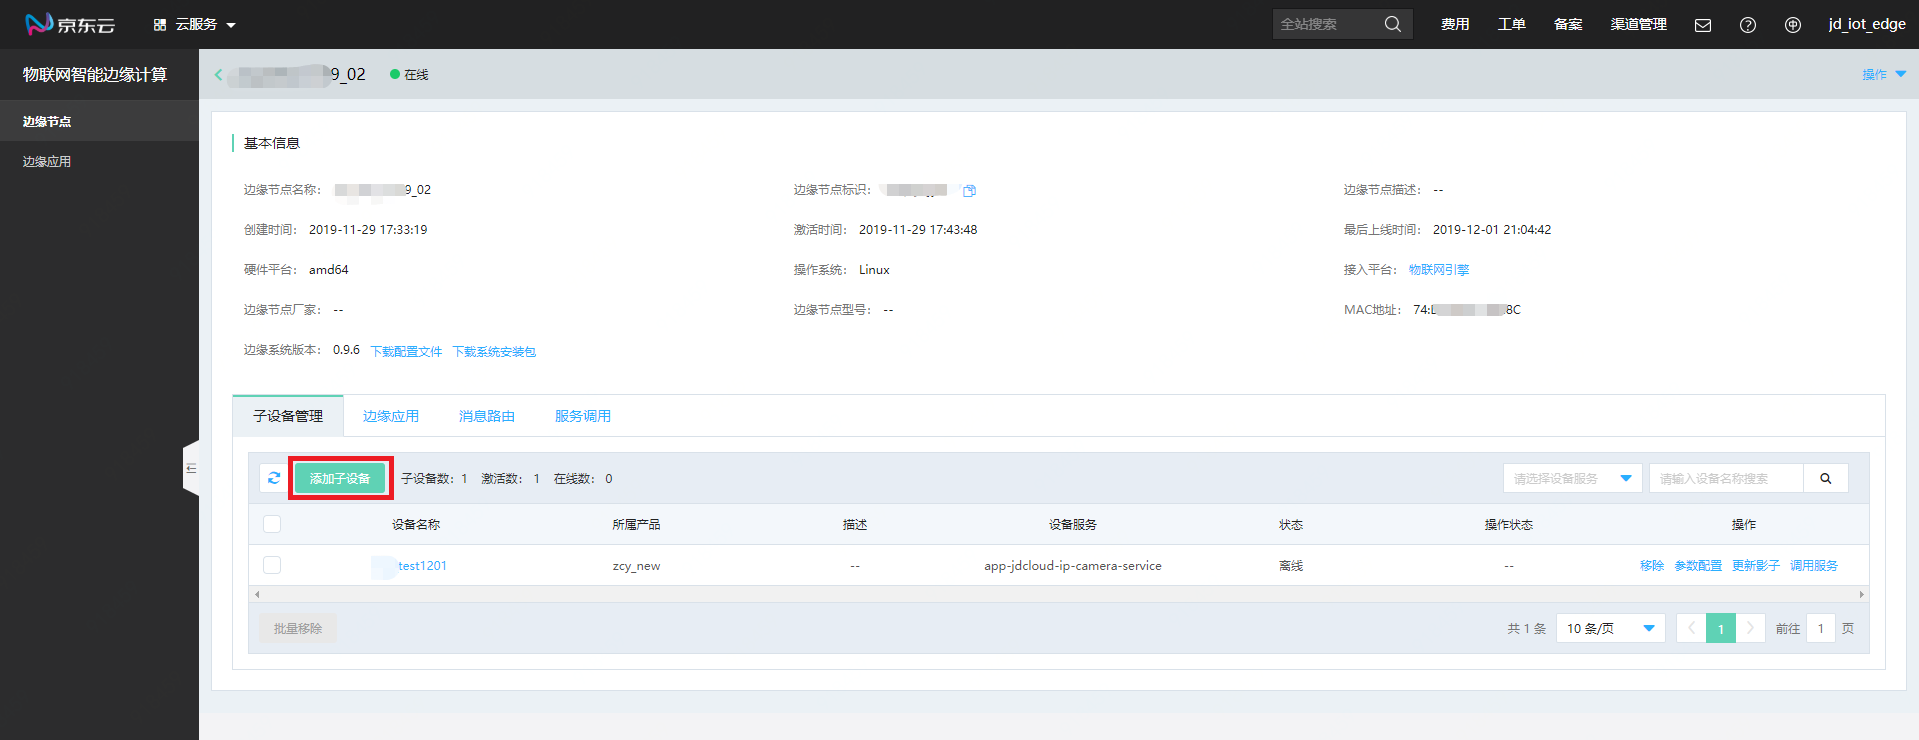
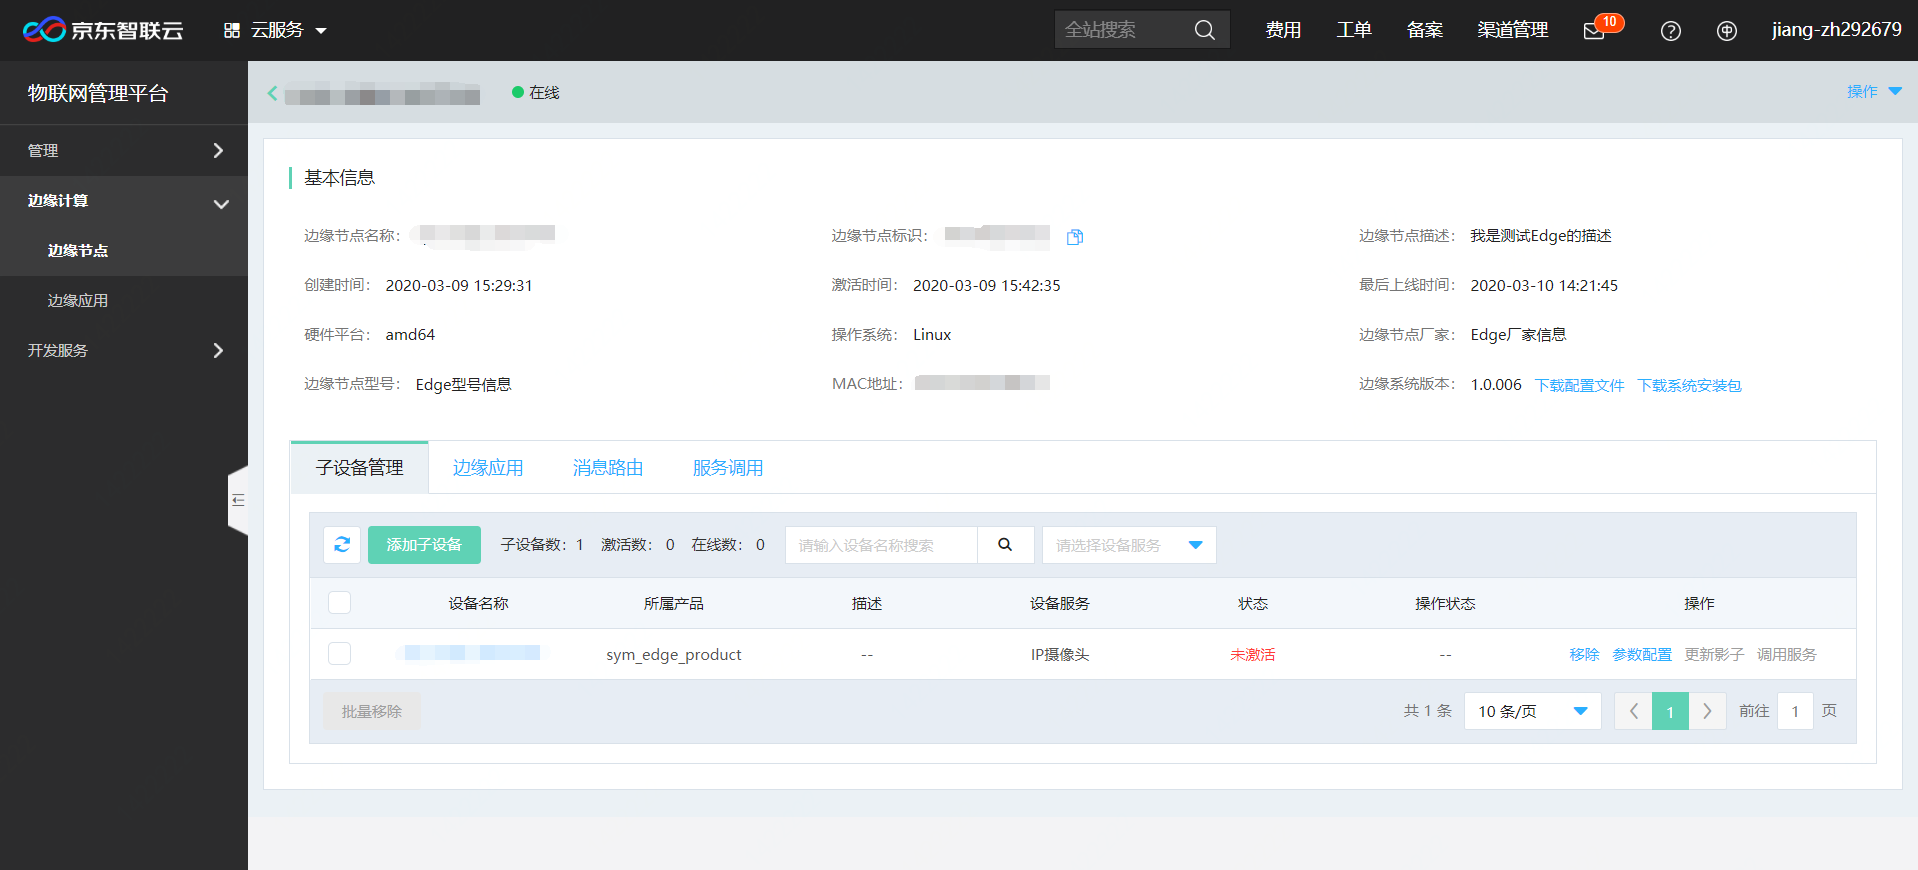
更新物联网管理平台前端界面

diff --git a/documentation/IoT/IoT-Core/Developer-Guide-Device/DeviceEasyLink.md b/documentation/IoT/IoT-Core/Developer-Guide-Device/DeviceEasyLink.md
@@ -1,8 +1,10 @@
 # 快速接入设备
 
-用户首次开通服务后，即可进入快速接入设备页面。（您之后也可在左侧菜单栏点击【快速接入设备】菜单，再次进入快速接入设备页面）
+用户首次开通服务后，即可进入快速接入设备页面。（您之后也可在左侧菜单栏点击【管理-概览-快速接入设备】菜单，再次进入快速接入设备页面）
 
-![快速接入设备首页](../../../../image/IoT/IoT-DeviceSDK/easylink0.png)
+![快速接入设备界面路径](../../../../image/IoT/IoT-DeviceSDK/easylink0.png)
+
+![快速接入设备首页](../../../../image/IoT/IoT-DeviceSDK/easylink05.png)
 
 1. 新建产品和设备
 
